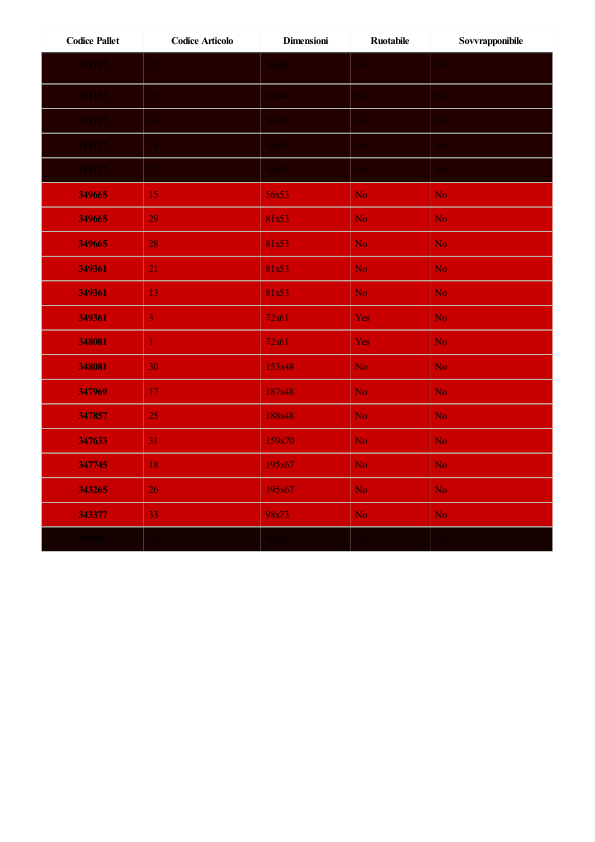
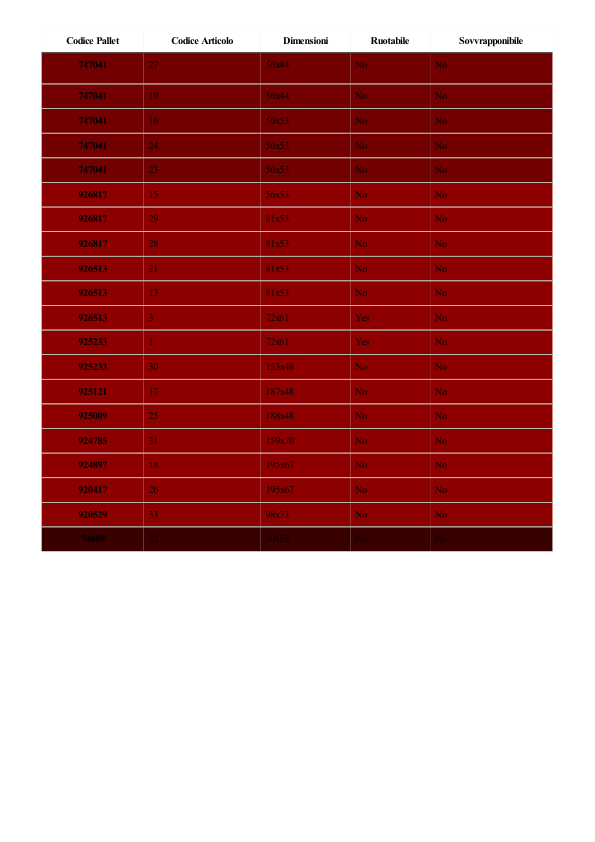
push ultimo

diff --git a/stable/template_bolla.html b/stable/template_bolla.html
@@ -65,218 +65,218 @@
         <tbody id="tabella_dinamica">
             <tr id="colonna_dinamica">
             </tr id="end_of_colonna_dinamica">
-<tr id="colonna_dinamica" style="background-color:#220000;">
-<th scope="row" style="font-family:'Serif'">712705</th>
+<tr id="colonna_dinamica" style="background-color:#720000;">
+<th scope="row" style="font-family:'Serif'">748609</th>
 <td style="font-family:'Serif'">14</td>
 <td style="font-family:'Serif'">53x10</td>
 <td style="font-family:'Serif'">No</td>
 <td style="font-family:'Serif'">No</td>
 </tr id="end_of_colonna_dinamica">
-<tr id="colonna_dinamica" style="background-color:#220000;">
-<th scope="row" style="font-family:'Serif'">712705</th>
+<tr id="colonna_dinamica" style="background-color:#720000;">
+<th scope="row" style="font-family:'Serif'">748609</th>
 <td style="font-family:'Serif'">22</td>
 <td style="font-family:'Serif'">53x10</td>
 <td style="font-family:'Serif'">No</td>
 <td style="font-family:'Serif'">No</td>
 </tr id="end_of_colonna_dinamica">
-<tr id="colonna_dinamica" style="background-color:#220000;">
-<th scope="row" style="font-family:'Serif'">712593</th>
+<tr id="colonna_dinamica" style="background-color:#720000;">
+<th scope="row" style="font-family:'Serif'">748497</th>
 <td style="font-family:'Serif'">20</td>
 <td style="font-family:'Serif'">53x10</td>
 <td style="font-family:'Serif'">No</td>
 <td style="font-family:'Serif'">No</td>
 </tr id="end_of_colonna_dinamica">
-<tr id="colonna_dinamica" style="background-color:#220000;">
-<th scope="row" style="font-family:'Serif'">712593</th>
+<tr id="colonna_dinamica" style="background-color:#720000;">
+<th scope="row" style="font-family:'Serif'">748497</th>
 <td style="font-family:'Serif'">12</td>
 <td style="font-family:'Serif'">53x10</td>
 <td style="font-family:'Serif'">No</td>
 <td style="font-family:'Serif'">No</td>
 </tr id="end_of_colonna_dinamica">
-<tr id="colonna_dinamica" style="background-color:#220000;">
-<th scope="row" style="font-family:'Serif'">712593</th>
+<tr id="colonna_dinamica" style="background-color:#720000;">
+<th scope="row" style="font-family:'Serif'">748497</th>
 <td style="font-family:'Serif'">34</td>
 <td style="font-family:'Serif'">30x30</td>
 <td style="font-family:'Serif'">No</td>
 <td style="font-family:'Serif'">No</td>
 </tr id="end_of_colonna_dinamica">
-<tr id="colonna_dinamica" style="background-color:#220000;">
-<th scope="row" style="font-family:'Serif'">712593</th>
+<tr id="colonna_dinamica" style="background-color:#720000;">
+<th scope="row" style="font-family:'Serif'">748497</th>
 <td style="font-family:'Serif'">10</td>
 <td style="font-family:'Serif'">73x23</td>
 <td style="font-family:'Serif'">No</td>
 <td style="font-family:'Serif'">Yes</td>
 </tr id="end_of_colonna_dinamica">
-<tr id="colonna_dinamica" style="background-color:#220000;">
-<th scope="row" style="font-family:'Serif'">712593</th>
+<tr id="colonna_dinamica" style="background-color:#720000;">
+<th scope="row" style="font-family:'Serif'">748497</th>
 <td style="font-family:'Serif'">9</td>
 <td style="font-family:'Serif'">73x23</td>
 <td style="font-family:'Serif'">No</td>
 <td style="font-family:'Serif'">Yes</td>
 </tr id="end_of_colonna_dinamica">
-<tr id="colonna_dinamica" style="background-color:#220000;">
-<th scope="row" style="font-family:'Serif'">712593</th>
+<tr id="colonna_dinamica" style="background-color:#720000;">
+<th scope="row" style="font-family:'Serif'">748497</th>
 <td style="font-family:'Serif'">7</td>
 <td style="font-family:'Serif'">68x31</td>
 <td style="font-family:'Serif'">No</td>
 <td style="font-family:'Serif'">No</td>
 </tr id="end_of_colonna_dinamica">
-<tr id="colonna_dinamica" style="background-color:#220000;">
-<th scope="row" style="font-family:'Serif'">712593</th>
+<tr id="colonna_dinamica" style="background-color:#720000;">
+<th scope="row" style="font-family:'Serif'">748497</th>
 <td style="font-family:'Serif'">8</td>
 <td style="font-family:'Serif'">48x45</td>
 <td style="font-family:'Serif'">No</td>
 <td style="font-family:'Serif'">No</td>
 </tr id="end_of_colonna_dinamica">
-<tr id="colonna_dinamica" style="background-color:#220000;">
-<th scope="row" style="font-family:'Serif'">712593</th>
+<tr id="colonna_dinamica" style="background-color:#720000;">
+<th scope="row" style="font-family:'Serif'">748497</th>
 <td style="font-family:'Serif'">2</td>
 <td style="font-family:'Serif'">60x40</td>
 <td style="font-family:'Serif'">No</td>
 <td style="font-family:'Serif'">No</td>
 </tr id="end_of_colonna_dinamica">
-<tr id="colonna_dinamica" style="background-color:#220000;">
-<th scope="row" style="font-family:'Serif'">712593</th>
+<tr id="colonna_dinamica" style="background-color:#720000;">
+<th scope="row" style="font-family:'Serif'">748497</th>
 <td style="font-family:'Serif'">4</td>
 <td style="font-family:'Serif'">60x40</td>
 <td style="font-family:'Serif'">No</td>
 <td style="font-family:'Serif'">No</td>
 </tr id="end_of_colonna_dinamica">
-<tr id="colonna_dinamica" style="background-color:#220000;">
-<th scope="row" style="font-family:'Serif'">711137</th>
+<tr id="colonna_dinamica" style="background-color:#720000;">
+<th scope="row" style="font-family:'Serif'">747041</th>
 <td style="font-family:'Serif'">27</td>
 <td style="font-family:'Serif'">56x44</td>
 <td style="font-family:'Serif'">No</td>
 <td style="font-family:'Serif'">No</td>
 </tr id="end_of_colonna_dinamica">
-<tr id="colonna_dinamica" style="background-color:#220000;">
-<th scope="row" style="font-family:'Serif'">711137</th>
+<tr id="colonna_dinamica" style="background-color:#720000;">
+<th scope="row" style="font-family:'Serif'">747041</th>
 <td style="font-family:'Serif'">19</td>
 <td style="font-family:'Serif'">56x44</td>
 <td style="font-family:'Serif'">No</td>
 <td style="font-family:'Serif'">No</td>
 </tr id="end_of_colonna_dinamica">
-<tr id="colonna_dinamica" style="background-color:#220000;">
-<th scope="row" style="font-family:'Serif'">711137</th>
+<tr id="colonna_dinamica" style="background-color:#720000;">
+<th scope="row" style="font-family:'Serif'">747041</th>
 <td style="font-family:'Serif'">16</td>
 <td style="font-family:'Serif'">56x53</td>
 <td style="font-family:'Serif'">No</td>
 <td style="font-family:'Serif'">No</td>
 </tr id="end_of_colonna_dinamica">
-<tr id="colonna_dinamica" style="background-color:#220000;">
-<th scope="row" style="font-family:'Serif'">711137</th>
+<tr id="colonna_dinamica" style="background-color:#720000;">
+<th scope="row" style="font-family:'Serif'">747041</th>
 <td style="font-family:'Serif'">24</td>
 <td style="font-family:'Serif'">56x53</td>
 <td style="font-family:'Serif'">No</td>
 <td style="font-family:'Serif'">No</td>
 </tr id="end_of_colonna_dinamica">
-<tr id="colonna_dinamica" style="background-color:#220000;">
-<th scope="row" style="font-family:'Serif'">711137</th>
+<tr id="colonna_dinamica" style="background-color:#720000;">
+<th scope="row" style="font-family:'Serif'">747041</th>
 <td style="font-family:'Serif'">23</td>
 <td style="font-family:'Serif'">56x53</td>
 <td style="font-family:'Serif'">No</td>
 <td style="font-family:'Serif'">No</td>
 </tr id="end_of_colonna_dinamica">
-<tr id="colonna_dinamica" style="background-color:#ca0000;">
-<th scope="row" style="font-family:'Serif'">349665</th>
+<tr id="colonna_dinamica" style="background-color:#8e0000;">
+<th scope="row" style="font-family:'Serif'">926817</th>
 <td style="font-family:'Serif'">15</td>
 <td style="font-family:'Serif'">56x53</td>
 <td style="font-family:'Serif'">No</td>
 <td style="font-family:'Serif'">No</td>
 </tr id="end_of_colonna_dinamica">
-<tr id="colonna_dinamica" style="background-color:#ca0000;">
-<th scope="row" style="font-family:'Serif'">349665</th>
+<tr id="colonna_dinamica" style="background-color:#8e0000;">
+<th scope="row" style="font-family:'Serif'">926817</th>
 <td style="font-family:'Serif'">29</td>
 <td style="font-family:'Serif'">81x53</td>
 <td style="font-family:'Serif'">No</td>
 <td style="font-family:'Serif'">No</td>
 </tr id="end_of_colonna_dinamica">
-<tr id="colonna_dinamica" style="background-color:#ca0000;">
-<th scope="row" style="font-family:'Serif'">349665</th>
+<tr id="colonna_dinamica" style="background-color:#8e0000;">
+<th scope="row" style="font-family:'Serif'">926817</th>
 <td style="font-family:'Serif'">28</td>
 <td style="font-family:'Serif'">81x53</td>
 <td style="font-family:'Serif'">No</td>
 <td style="font-family:'Serif'">No</td>
 </tr id="end_of_colonna_dinamica">
-<tr id="colonna_dinamica" style="background-color:#ca0000;">
-<th scope="row" style="font-family:'Serif'">349361</th>
+<tr id="colonna_dinamica" style="background-color:#8e0000;">
+<th scope="row" style="font-family:'Serif'">926513</th>
 <td style="font-family:'Serif'">21</td>
 <td style="font-family:'Serif'">81x53</td>
 <td style="font-family:'Serif'">No</td>
 <td style="font-family:'Serif'">No</td>
 </tr id="end_of_colonna_dinamica">
-<tr id="colonna_dinamica" style="background-color:#ca0000;">
-<th scope="row" style="font-family:'Serif'">349361</th>
+<tr id="colonna_dinamica" style="background-color:#8e0000;">
+<th scope="row" style="font-family:'Serif'">926513</th>
 <td style="font-family:'Serif'">13</td>
 <td style="font-family:'Serif'">81x53</td>
 <td style="font-family:'Serif'">No</td>
 <td style="font-family:'Serif'">No</td>
 </tr id="end_of_colonna_dinamica">
-<tr id="colonna_dinamica" style="background-color:#ca0000;">
-<th scope="row" style="font-family:'Serif'">349361</th>
+<tr id="colonna_dinamica" style="background-color:#8e0000;">
+<th scope="row" style="font-family:'Serif'">926513</th>
 <td style="font-family:'Serif'">3</td>
 <td style="font-family:'Serif'">72x61</td>
 <td style="font-family:'Serif'">Yes</td>
 <td style="font-family:'Serif'">No</td>
 </tr id="end_of_colonna_dinamica">
-<tr id="colonna_dinamica" style="background-color:#c90000;">
-<th scope="row" style="font-family:'Serif'">348081</th>
+<tr id="colonna_dinamica" style="background-color:#8e0000;">
+<th scope="row" style="font-family:'Serif'">925233</th>
 <td style="font-family:'Serif'">1</td>
 <td style="font-family:'Serif'">72x61</td>
 <td style="font-family:'Serif'">Yes</td>
 <td style="font-family:'Serif'">No</td>
 </tr id="end_of_colonna_dinamica">
-<tr id="colonna_dinamica" style="background-color:#c90000;">
-<th scope="row" style="font-family:'Serif'">348081</th>
+<tr id="colonna_dinamica" style="background-color:#8e0000;">
+<th scope="row" style="font-family:'Serif'">925233</th>
 <td style="font-family:'Serif'">30</td>
 <td style="font-family:'Serif'">153x48</td>
 <td style="font-family:'Serif'">No</td>
 <td style="font-family:'Serif'">No</td>
 </tr id="end_of_colonna_dinamica">
-<tr id="colonna_dinamica" style="background-color:#c90000;">
-<th scope="row" style="font-family:'Serif'">347969</th>
+<tr id="colonna_dinamica" style="background-color:#8e0000;">
+<th scope="row" style="font-family:'Serif'">925121</th>
 <td style="font-family:'Serif'">17</td>
 <td style="font-family:'Serif'">187x48</td>
 <td style="font-family:'Serif'">No</td>
 <td style="font-family:'Serif'">No</td>
 </tr id="end_of_colonna_dinamica">
-<tr id="colonna_dinamica" style="background-color:#c90000;">
-<th scope="row" style="font-family:'Serif'">347857</th>
+<tr id="colonna_dinamica" style="background-color:#8e0000;">
+<th scope="row" style="font-family:'Serif'">925009</th>
 <td style="font-family:'Serif'">25</td>
 <td style="font-family:'Serif'">188x48</td>
 <td style="font-family:'Serif'">No</td>
 <td style="font-family:'Serif'">No</td>
 </tr id="end_of_colonna_dinamica">
-<tr id="colonna_dinamica" style="background-color:#c90000;">
-<th scope="row" style="font-family:'Serif'">347633</th>
+<tr id="colonna_dinamica" style="background-color:#8e0000;">
+<th scope="row" style="font-family:'Serif'">924785</th>
 <td style="font-family:'Serif'">31</td>
 <td style="font-family:'Serif'">159x70</td>
 <td style="font-family:'Serif'">No</td>
 <td style="font-family:'Serif'">No</td>
 </tr id="end_of_colonna_dinamica">
-<tr id="colonna_dinamica" style="background-color:#c90000;">
-<th scope="row" style="font-family:'Serif'">347745</th>
+<tr id="colonna_dinamica" style="background-color:#8e0000;">
+<th scope="row" style="font-family:'Serif'">924897</th>
 <td style="font-family:'Serif'">18</td>
 <td style="font-family:'Serif'">195x67</td>
 <td style="font-family:'Serif'">No</td>
 <td style="font-family:'Serif'">No</td>
 </tr id="end_of_colonna_dinamica">
-<tr id="colonna_dinamica" style="background-color:#c60000;">
-<th scope="row" style="font-family:'Serif'">343265</th>
+<tr id="colonna_dinamica" style="background-color:#8d0000;">
+<th scope="row" style="font-family:'Serif'">920417</th>
 <td style="font-family:'Serif'">26</td>
 <td style="font-family:'Serif'">195x67</td>
 <td style="font-family:'Serif'">No</td>
 <td style="font-family:'Serif'">No</td>
 </tr id="end_of_colonna_dinamica">
-<tr id="colonna_dinamica" style="background-color:#c60000;">
-<th scope="row" style="font-family:'Serif'">343377</th>
+<tr id="colonna_dinamica" style="background-color:#8d0000;">
+<th scope="row" style="font-family:'Serif'">920529</th>
 <td style="font-family:'Serif'">33</td>
 <td style="font-family:'Serif'">98x73</td>
 <td style="font-family:'Serif'">No</td>
 <td style="font-family:'Serif'">No</td>
 </tr id="end_of_colonna_dinamica">
-<tr id="colonna_dinamica" style="background-color:#170000;">
-<th scope="row" style="font-family:'Serif'">497457</th>
+<tr id="colonna_dinamica" style="background-color:#390000;">
+<th scope="row" style="font-family:'Serif'">74609</th>
 <td style="font-family:'Serif'">32</td>
 <td style="font-family:'Serif'">90x58</td>
 <td style="font-family:'Serif'">No</td>

diff --git a/stable/EasyPalletSolution.py b/stable/EasyPalletSolution.py
@@ -100,11 +100,11 @@ def create_pdf(mainfolder,data):
                     built_pallets[idx]['CODICE_PALLET'] = int(pallet['Pallet'])
                     built_pallets[idx]['COLORE_GRUPPO'] = built_pallets[idx]['CODICE_PALLET'] *12
                     while built_pallets[idx]['COLORE_GRUPPO'] >= 255:
-                        built_pallets[idx]['COLORE_GRUPPO'] = int(built_pallets[idx]['COLORE_GRUPPO'] /12)
+                        built_pallets[idx]['COLORE_GRUPPO'] = int(built_pallets[idx]['COLORE_GRUPPO'] /5)
                     try:
                         if built_pallets[idx]['COLORE_GRUPPO'] == colori[idx]:
                             while built_pallets[idx]['COLORE_GRUPPO'] < 255:
-                                built_pallets[idx]['COLORE_GRUPPO'] = built_pallets[idx]['COLORE_GRUPPO'] *8
+                                built_pallets[idx]['COLORE_GRUPPO'] = built_pallets[idx]['COLORE_GRUPPO'] /4
                                 colori[idx] = (built_pallets[idx]['COLORE_GRUPPO'])
                         else:
                             colori[idx] = (built_pallets[idx]['COLORE_GRUPPO'])
